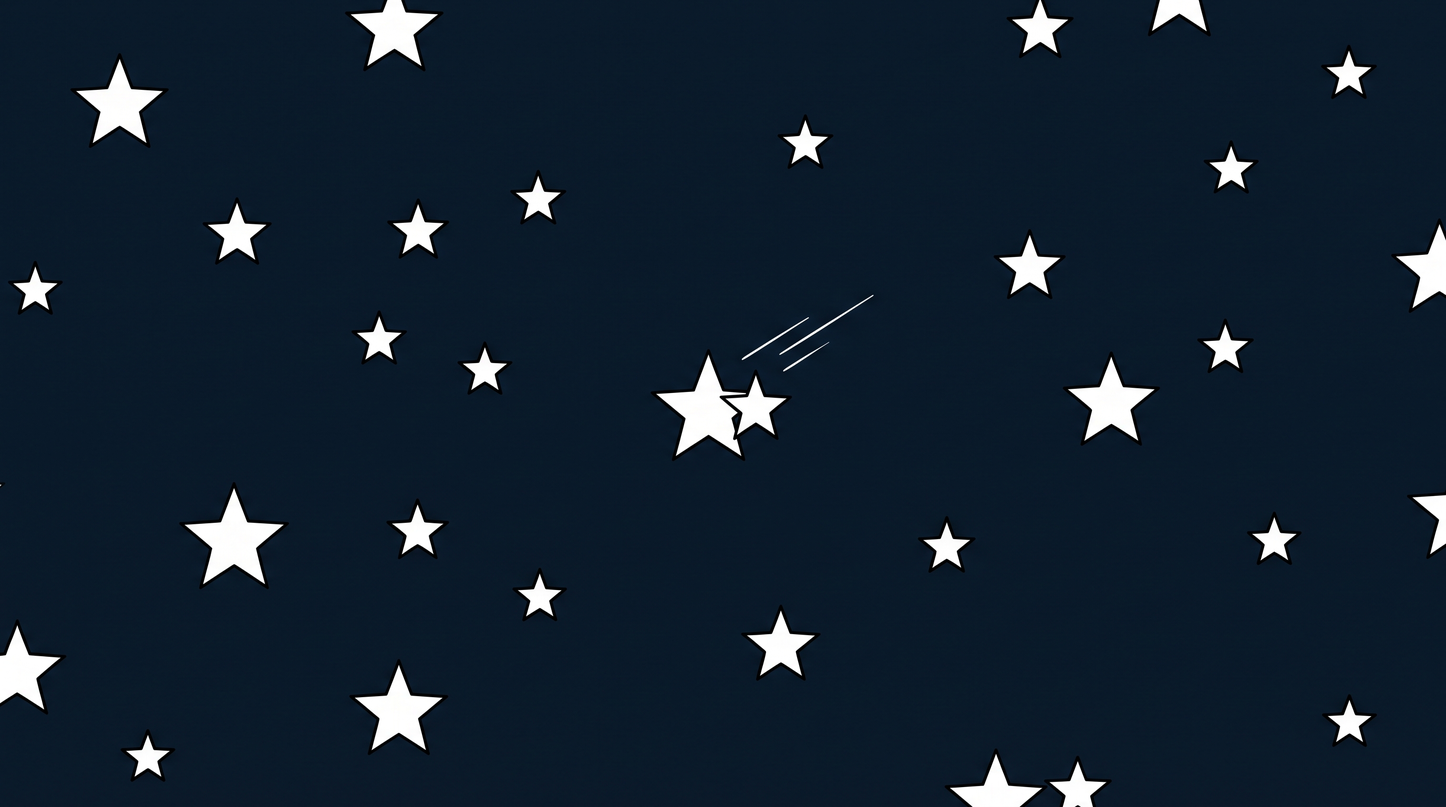
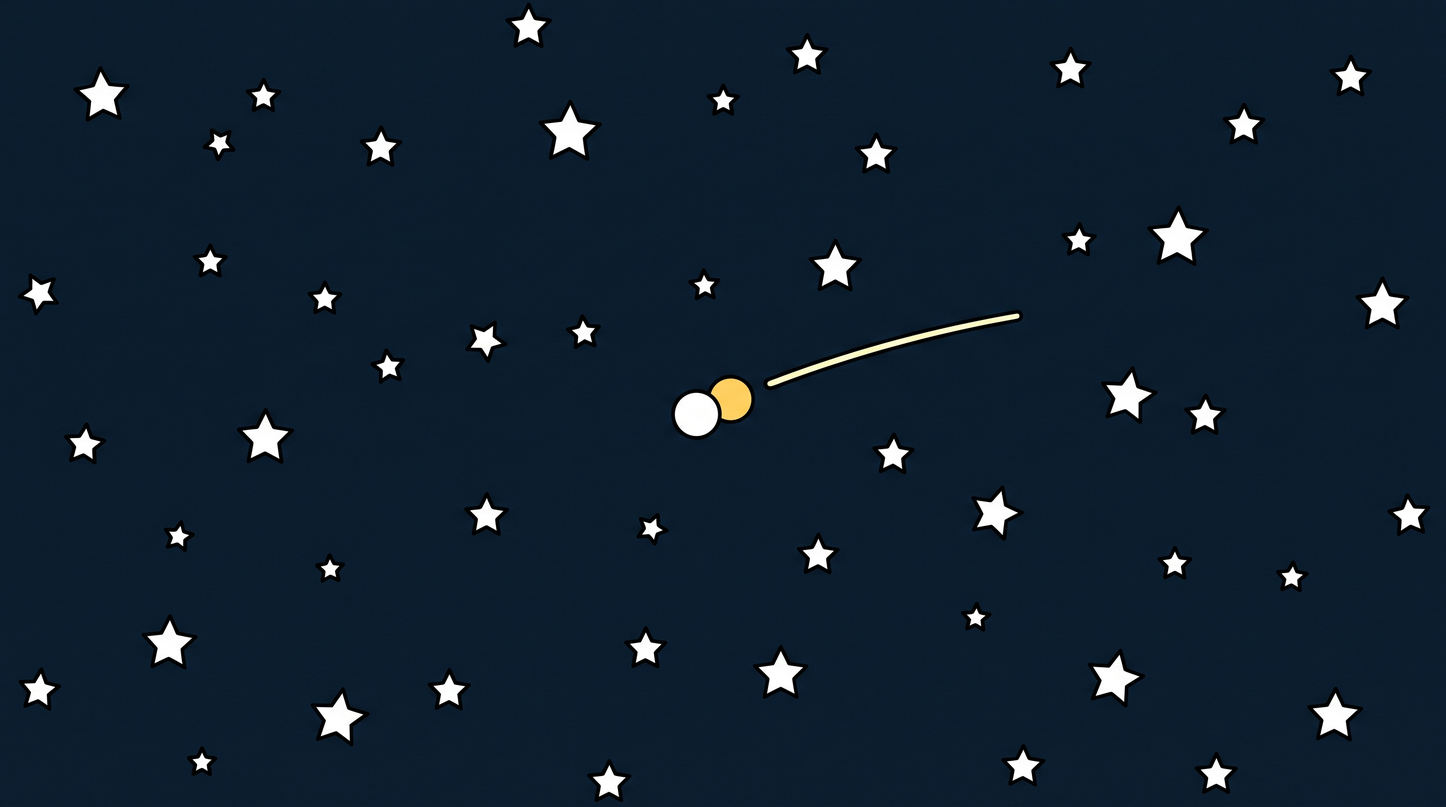
Video 2: Stapel 4 — drei Fehlschlaege, drei Ursachen behoben
Neun von zwoelf sitzen. M42 kommt als flaches Sinnbild zurueck: Holme
im Punkt zusammenlaufend, Sprossen nach oben laenger, das Dreieck mit
der Spitze nach oben, Spitze an Spitze — die Korrektur aus dem zweiten
Stichprobenlauf haelt. M44 hat jetzt gesenkten Blick, Lupe in der
rechten Hand und den Haarknoten; alle drei Maengel von damals behoben.
M51s Unterschrift ist eine durchgehende Tintenschleife ohne einen
Buchstaben, M52s Briefumschlag ist unbeschriftet. Sterngroesse haelt:
die helle Flaeche liegt jetzt bei allen fuenf Sternfeldern zwischen
1,80 und 3,28 %.

Drei Fehlschlaege:

1. M64 zeigt dieselbe Leiter ein drittes Mal, war aber nie als Paar
   geführt — nur M42/M54 stehen in der Liste. Frisch erzeugt kam eine
   perspektivische HOLZLEITER zurueck statt des Sinnbilds, genau der
   Fehler, der bei M42 behoben war. Drei Motive auf einen Gegenstand,
   zwei davon verkettet: die Verkettung muss vollstaendig sein.
2. M43 verlangt mehrere Frauen und einen Mann an der Tuer, bekam FRAMING
   _EINZEL mit "no second figure" — und lieferte eine einzige Frau.
   Derselbe Widerspruch wie bei M06, nur haeufiger: in M03 und M27 hat
   das Modell das Verbot uebergangen, in M43 hat das Verbot gewonnen.
   Welche Seite gewinnt, ist Zufall. Neues FRAMING_GRUPPE fuer M03,
   M27, M43, M59.
3. Der Leuchttisch hatte keine Farbe. Gemessen: M44 (255,255,221) und
   M48 (255,254,234) warmcreme, M45 (231,255,255) cyan. Steht jetzt im
   Durchlichtblock.
[…]

diff --git a/produktion/video-02/bildplan2.py b/produktion/video-02/bildplan2.py
@@ -521,9 +521,11 @@ SCHEMA_TEXTFREI = (
 DURCHLICHT = (
     " ADDITION - ONE LIGHT SOURCE: the picture is lit from below by a light "
     "table whose glowing glass top lies directly under whatever is being "
-    "looked at. That glass is the brightest surface in the frame; everything "
-    "resting on it and everything above it is lit from below, and nothing "
-    "casts a downward shadow.")
+    "looked at. That glass is the brightest surface in the frame and it "
+    "glows one flat pale warm cream - the same pale warm cream in every "
+    "picture of this series, a white with a faint yellow in it and no blue. "
+    "Everything resting on it and everything above it is lit from below, and "
+    "nothing casts a downward shadow.")
 
 # Im Weltraum gibt es keine Flaeche, auf die ein Schatten faellt, und keine
 # beleuchtete Seite. Der allgemeine Lichtblock redet aber von beidem — vier
@@ -645,6 +647,22 @@ NACHT_MOTIVE = {"M01", "M02", "M13", "M28", "M35", "M39", "M61"}
 # M06 ist der einzige Koerperausschnitt, der ein Gesicht zeigt.
 KOPF_MOTIVE = {"M06"}
 
+# Vier Motive zeigen mehrere Menschen — und bekamen bis zum 16.08.2026
+# FRAMING_EINZEL, das woertlich "no second figure" verlangt. Derselbe
+# Widerspruch wie bei M06, nur haeufiger: der Anweisungsteil verbot, was die
+# Szene verlangte. In M03 und M27 hat das Modell das Verbot uebergangen und
+# die Gruppe gezeichnet, in M43 hat das Verbot gewonnen — von mehreren
+# Frauen am Arbeitstisch und dem Mann an der Tuer kam eine einzige Frau
+# zurueck. Welche Seite gewinnt, ist Zufall; der Widerspruch gehoert weg.
+MEHRFIGUR = {"M03", "M27", "M43", "M59"}
+FRAMING_GRUPPE = (
+    "FRAMING: several people are in this picture and every one of them is "
+    "drawn whole - nobody is cut off by the edge of the frame, and nobody is "
+    "a mirrored copy of anyone else. They are shown at what they are doing; "
+    "where someone sits at a table or a desk, that furniture may cover the "
+    "lower body. Sober, restrained, documentary - never cute."
+)
+
 # Nur wo die Szene selbst eine Kopfbedeckung verlangt. Alle uebrigen
 # Figurenmotive bekommen "the hair of that period" ohne Hut.
 KOPFBEDECKUNG = {"M27"}
@@ -705,6 +723,8 @@ def prompt(mid: str) -> str:
     fr = d["framing"]
     if ist_schema:
         rahmen = bp.FRAMING_LEER
+    elif fr == "ganz" and mid in MEHRFIGUR:
+        rahmen = FRAMING_GRUPPE
     elif fr == "ganz":
         rahmen = bp.FRAMING_SITZEND if d.get("sitzend") else bp.FRAMING_EINZEL
     elif fr == "teil":

diff --git a/produktion/video-02/zustandspaare.py b/produktion/video-02/zustandspaare.py
@@ -143,6 +143,17 @@ def verschieben(quelle: pathlib.Path, ziel: pathlib.Path,
 #
 #   AUS TEXT GELUNGEN, nichts zu tun:
 #     M07/M08  dieselbe Strasse im Winter und im Sommer
+#
+#   NACHTRAG 16.08.2026 — ein Zustand, der nie als Paar geführt war:
+#     M42/M64  Die Szenenliste kennt nur das Paar M42/M54. M64 zeigt aber
+#              DIESELBE Leiter ein drittes Mal ("dieselbe Leiter, intakt —
+#              aber die zweite Sprosse von unten ist eine andere"), ohne
+#              Paareintrag. Frisch erzeugt kam darum keine Leiter-als-
+#              Diagramm zurueck, sondern eine perspektivisch gezeichnete
+#              HOLZLEITER — genau der Fehler, der bei M42 ausdruecklich
+#              behoben worden war. Drei Motive auf denselben Gegenstand,
+#              zwei davon verkettet: die Verkettung muss vollstaendig sein,
+#              sonst faellt der dritte heraus.
 PAARE = [
     # erst, zweit, Saat im Gegenstand, neuer linker Rand, Schutzflaechen
     ("M04", "M05", (750, 900), 1500, ((100, 2600),)),
